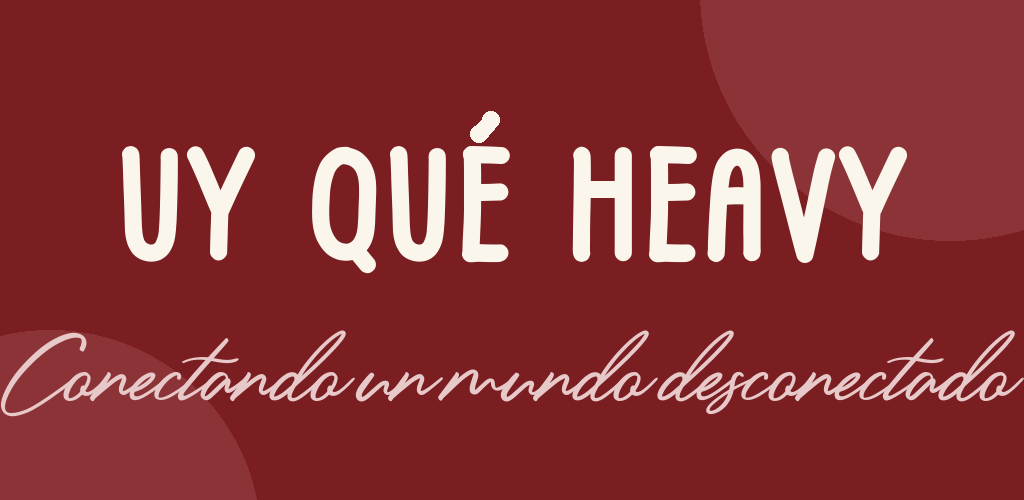
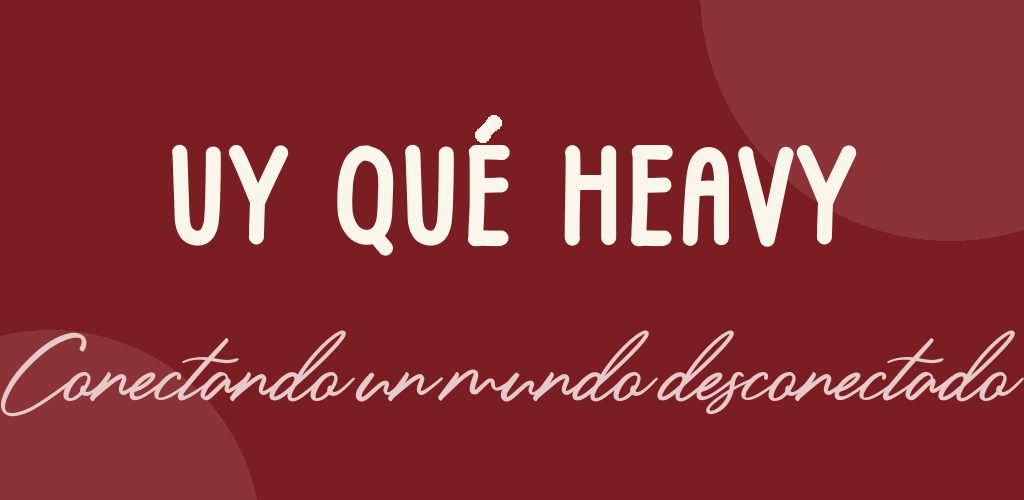
Gráfico de funciones: frase con más aire

Changed region(s): [[0.0938, 0.21, 0.5, 0.54], [0.5312, 0.27, 0.9062, 0.54]]

diff --git a/03_APP_V2/scripts/make_brand_assets.py b/03_APP_V2/scripts/make_brand_assets.py
@@ -133,7 +133,7 @@ def play_store_graphics():
     d = ImageDraw.Draw(fg)
     d.ellipse((700, -260, 1200, 240), fill=WINE_SOFT)
     d.ellipse((-160, 330, 260, 750), fill=WINE_SOFT)
-    draw_wordline(fg, (112, 120, 912, 300))
+    draw_wordline(fg, (160, 110, 864, 290))
     sub = ImageFont.truetype(os.path.join(ROOT, 'assets/fonts/Sieroty.ttf'), 58)
     text = 'Conectando un mundo desconectado'
     l, t, r, b = d.textbbox((0, 0), text, font=sub)
